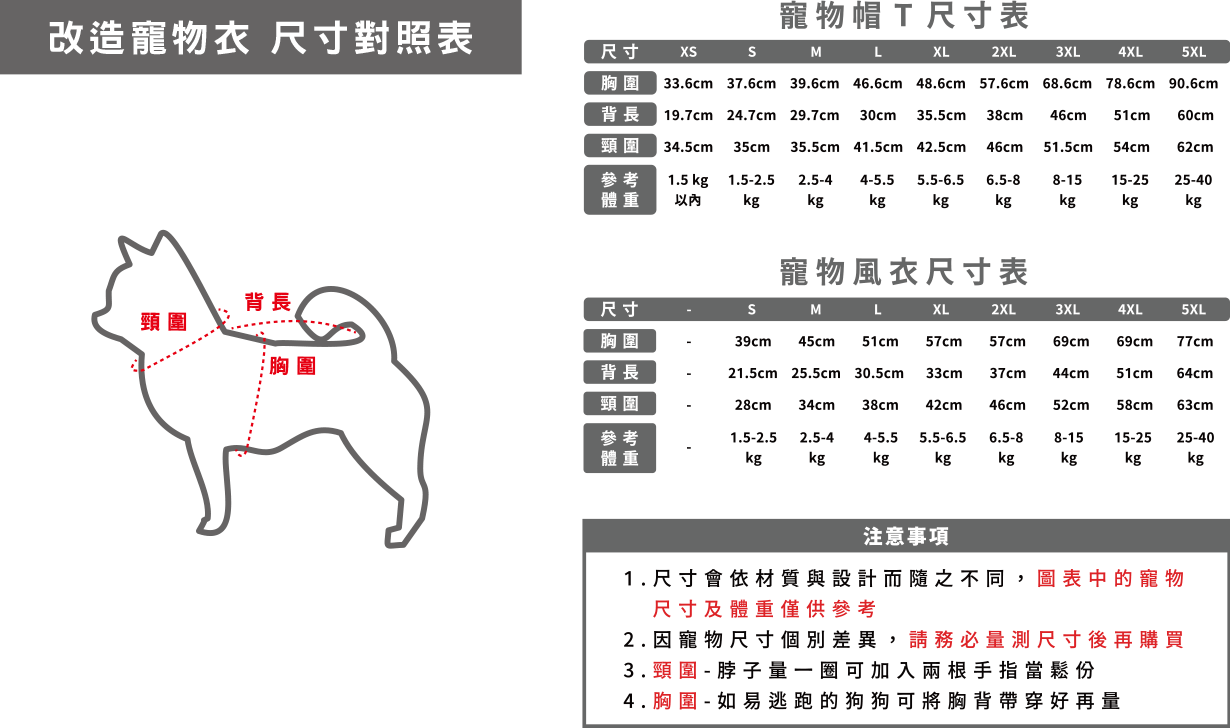
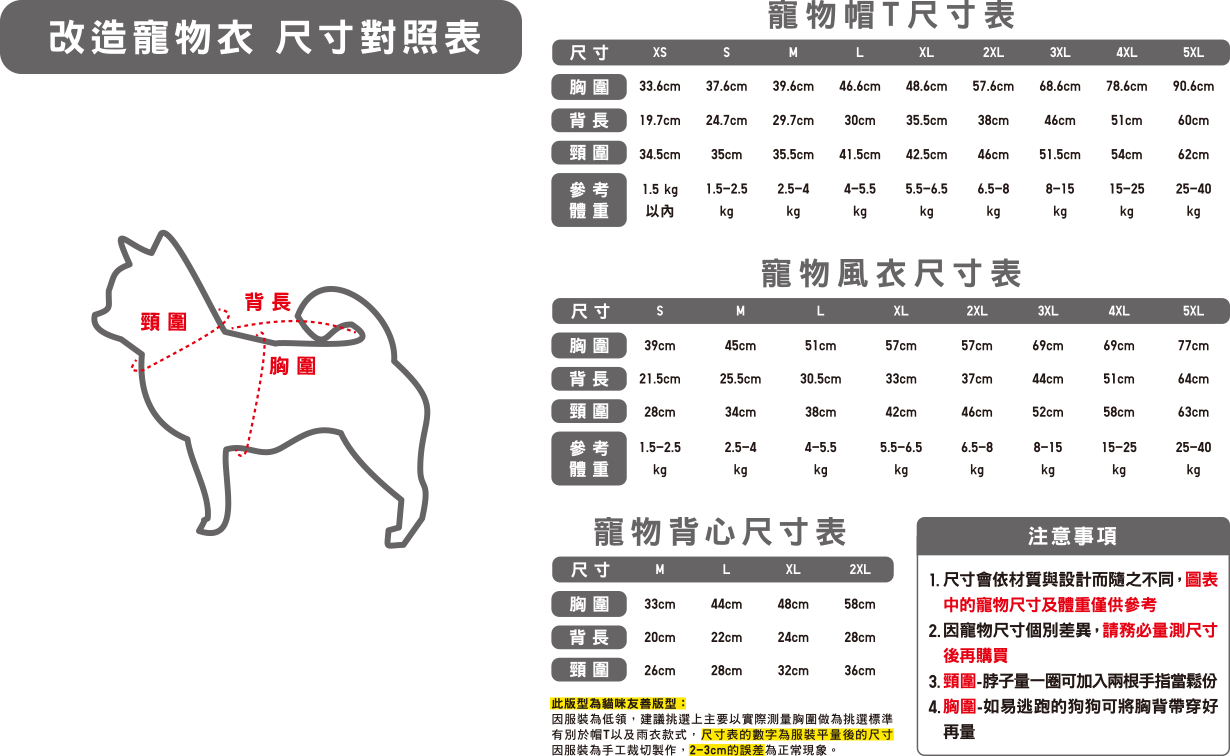
前端更新

diff --git a/public/css/main.css b/public/css/main.css
@@ -323,15 +323,19 @@ body{
 .sec6 .sum{
   display: flex;
   flex-flow: row nowrap;
-  justify-content: space-around;
+  justify-content: flex-start;
   align-items: flex-start;
   margin-bottom: 140px;
 }
 .sec6 .sum .cards{
   max-width: 370px;
-  width: calc( (100% / 3) - 20px );
+  width: calc( (100% - 60px) / 4 );
   background-color: #fff;
   border: 1px solid #dadada;
+  margin-right: 20px;
+}
+.sec6 .sum .cards:last-child{
+  margin-right: 0;
 }
 .sec6 .sum .cards img{
   width: 100%;
@@ -1155,6 +1159,7 @@ display: inline-block;}
   display: flex;
   flex-flow: row nowrap;
   margin-bottom: 4vw;
+  margin-right: 0;
 }
 .sec6 .sum .cards:last-child{
   margin-bottom: 0;

diff --git a/resources/views/welcome.blade.php b/resources/views/welcome.blade.php
@@ -48,7 +48,7 @@
 
   <link rel="stylesheet" type="text/css" href="/fonts/uniqlo/css/uniqlo.css"/>
   <link rel="stylesheet" type="text/css" href="/css/bootstrap.min.css">
-  <link rel="stylesheet" type="text/css" href="/css/main.css?20220419"/>
+  <link rel="stylesheet" type="text/css" href="/css/main.css?20220421"/>
   <script src="https://kit.fontawesome.com/3de6e4f0a1.js"></script>
 
     <style>
@@ -300,6 +300,14 @@
               <div class="dis">不分尺寸單一定價</div>
             </div>
           </div>
+          <div class="cards">
+            <div><img src="/images/1280/items_sec1_img4.png" alt="④ Pet Vest 寵物背心"></div>
+            <div class="co">
+              <div class="name">④ Pet Vest 寵物背心</div>
+              <div class="price">NT$390</div>
+              <div class="dis">不分尺寸單一定價</div>
+            </div>
+          </div>
         </div>
 
         <div class="itemintro">
@@ -331,6 +339,24 @@
             附上魔鬼氈穿脫方便輕鬆調整鬆緊度、後背可調式貼心設計，讓寵物衣更加合身。</p>
           <img class="_1280" src="/images/1280/items_sec2_img3.png" alt="② Pet Hoodie 寵物帽T">
           <img class="_640"  src="/images/640/items_sec2_img3.png" alt="② Pet Hoodie 寵物帽T">
+        </div>
+
+        <div class="itemintro">
+          <h3 class="title">④<br class="_640_inline"> Pet Vest<br class="_640_inline"> 寵物背心</h3>
+          <div class="sub1">全尺寸單一價</div>
+          <div class="sub2">適用改造的UNIQLO二手衣品項：<br class="_640_inline">男女裝短袖圓領T恤</div>
+          <div class="price">NT$390</div>
+          <p>以圓領T再製而成，專為貓咪體型設計，水手領的無袖撞色寵物背心，<br class="_1280">
+            就連不愛穿衣服的貓寶貝也能體驗設計師的獨家設計。</p>
+          <img class="_1280" src="/images/1280/items_sec2_img5.png" alt="④ Pet Vest 寵物背心">
+          <img class="_640"  src="/images/640/items_sec2_img5.png" alt="④ Pet Vest 寵物背心">
+        </div>
+
+        <div class="itemintro">
+          <div class="price">二手衣廢料與運輸包裝</div>
+          <p>使用過的二手衣廢料將再製成環保燃料棒，供汽電共生廠鍋爐使用，運輸流程採用循環包裝袋，一同體驗循環經濟的實際應用!</p>
+          <img class="_1280" src="/images/1280/items_sec2_img4.png" alt="二手衣廢料與運輸包裝">
+          <img class="_640"  src="/images/640/items_sec2_img4.png" alt="二手衣廢料與運輸包裝">
         </div>
 
       </div>

diff --git a/README.md b/README.md
@@ -1,64 +1,10 @@
-<p align="center"><a href="https://laravel.com" target="_blank"><img src="https://raw.githubusercontent.com/laravel/art/master/logo-lockup/5%20SVG/2%20CMYK/1%20Full%20Color/laravel-logolockup-cmyk-red.svg" width="400"></a></p>
+```
+sudo docker-compose build
+sudo docker tag fpm-alpine-7.4/uq-jix rc701021/uq-jix:1.11
+cd ..
+vi docker-compose.yml 
 
-<p align="center">
-<a href="https://travis-ci.org/laravel/framework"><img src="https://travis-ci.org/laravel/framework.svg" alt="Build Status"></a>
-<a href="https://packagist.org/packages/laravel/framework"><img src="https://img.shields.io/packagist/dt/laravel/framework" alt="Total Downloads"></a>
-<a href="https://packagist.org/packages/laravel/framework"><img src="https://img.shields.io/packagist/v/laravel/framework" alt="Latest Stable Version"></a>
-<a href="https://packagist.org/packages/laravel/framework"><img src="https://img.shields.io/packagist/l/laravel/framework" alt="License"></a>
-</p>
-
-## About Laravel
-
-Laravel is a web application framework with expressive, elegant syntax. We believe development must be an enjoyable and creative experience to be truly fulfilling. Laravel takes the pain out of development by easing common tasks used in many web projects, such as:
-
-- [Simple, fast routing engine](https://laravel.com/docs/routing).
-- [Powerful dependency injection container](https://laravel.com/docs/container).
-- Multiple back-ends for [session](https://laravel.com/docs/session) and [cache](https://laravel.com/docs/cache) storage.
-- Expressive, intuitive [database ORM](https://laravel.com/docs/eloquent).
-- Database agnostic [schema migrations](https://laravel.com/docs/migrations).
-- [Robust background job processing](https://laravel.com/docs/queues).
-- [Real-time event broadcasting](https://laravel.com/docs/broadcasting).
-
-Laravel is accessible, powerful, and provides tools required for large, robust applications.
-
-## Learning Laravel
-
-Laravel has the most extensive and thorough [documentation](https://laravel.com/docs) and video tutorial library of all modern web application frameworks, making it a breeze to get started with the framework.
-
-If you don't feel like reading, [Laracasts](https://laracasts.com) can help. Laracasts contains over 1500 video tutorials on a range of topics including Laravel, modern PHP, unit testing, and JavaScript. Boost your skills by digging into our comprehensive video library.
-
-## Laravel Sponsors
-
-We would like to extend our thanks to the following sponsors for funding Laravel development. If you are interested in becoming a sponsor, please visit the Laravel [Patreon page](https://patreon.com/taylorotwell).
-
-### Premium Partners
-
-- **[Vehikl](https://vehikl.com/)**
-- **[Tighten Co.](https://tighten.co)**
-- **[Kirschbaum Development Group](https://kirschbaumdevelopment.com)**
-- **[64 Robots](https://64robots.com)**
-- **[Cubet Techno Labs](https://cubettech.com)**
-- **[Cyber-Duck](https://cyber-duck.co.uk)**
-- **[Many](https://www.many.co.uk)**
-- **[Webdock, Fast VPS Hosting](https://www.webdock.io/en)**
-- **[DevSquad](https://devsquad.com)**
-- **[Curotec](https://www.curotec.com/services/technologies/laravel/)**
-- **[OP.GG](https://op.gg)**
-- **[WebReinvent](https://webreinvent.com/?utm_source=laravel&utm_medium=github&utm_campaign=patreon-sponsors)**
-- **[Lendio](https://lendio.com)**
-
-## Contributing
-
-Thank you for considering contributing to the Laravel framework! The contribution guide can be found in the [Laravel documentation](https://laravel.com/docs/contributions).
-
-## Code of Conduct
-
-In order to ensure that the Laravel community is welcoming to all, please review and abide by the [Code of Conduct](https://laravel.com/docs/contributions#code-of-conduct).
-
-## Security Vulnerabilities
-
-If you discover a security vulnerability within Laravel, please send an e-mail to Taylor Otwell via [taylor@laravel.com](mailto:taylor@laravel.com). All security vulnerabilities will be promptly addressed.
-
-## License
-
-The Laravel framework is open-sourced software licensed under the [MIT license](https://opensource.org/licenses/MIT).
+sudo docker exec -it ec2-user_webapp_1 cat storage/logs/laravel.log
+sudo docker exec -it ec2-user_webapp_1 sh
+sudo docker-compose up -d
+```
